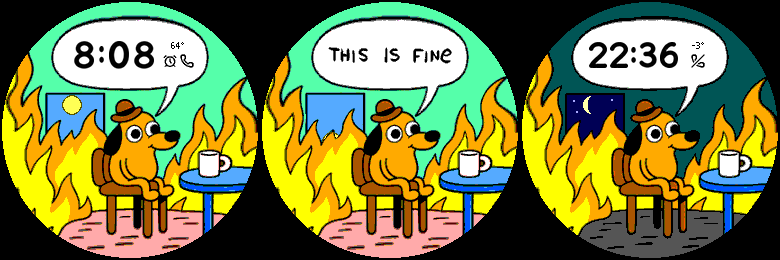
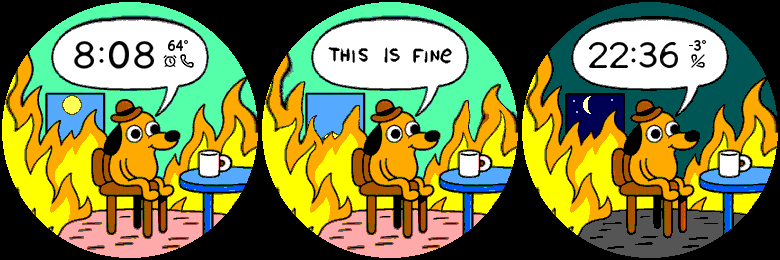
Lighten clock digits, enlarge weather, and animate the flame tips on wake

diff --git a/tools/prepare_art.py b/tools/prepare_art.py
@@ -4,7 +4,7 @@ from pathlib import Path
 import json
 import math
 import xml.etree.ElementTree as ET
-from PIL import Image, ImageDraw
+from PIL import Image, ImageChops, ImageDraw
 
 ROOT = Path(__file__).resolve().parents[1]
 ART, OUT, FONTS = ROOT / "art", ROOT / "resources/drawables", ROOT / "resources/fonts"
@@ -131,9 +131,9 @@ def build_marks():
                  ("MOON_R", moon_r), ("HALF_WIDTHS", halfwidths)]) + "}\n", encoding="utf8")
 
 
-# Strokes for the six remaining clock digits.
-# Coordinates are in a 20 by 28 px pen grid. Each tuple is one cubic Bezier.
+# Pen strokes in a 20 by 28 px grid. Each tuple is one cubic Bezier.
 STROKES = {
+    "1": [[(6,8),(8,6,10,4,12,3),(12,9,11.5,21,12,25)]],
     "2": [[(3,7),(6,0,17,1,17,8),(17,13,6,19,3,25),(6,25,13,25,17,25)]],
     "4": [[(13,3),(10,7,6,12,2,18),(7,18,12,18,18,18)],[(14,3),(14,9,14,20,14,25)]],
     "5": [[(16,3),(12,3,7,3,5,3),(5,7,5,10,4,13),(9,10,17,11,17,18),(18,26,8,28,3,23)]],
@@ -167,26 +167,40 @@ def clock_glyphs():
     day = Image.open(ART / "day-clock.png").getchannel("A")
     night = Image.open(ART / "night-clock.png").getchannel("A")
     glyphs = {c: pen(paths) for c, paths in STROKES.items()}
-    for c, sample, x, x2 in [("8",day,0,38), (":",day,41,57), ("0",day,59,95),
-                              ("1",night,0,28), ("3",night,115,148)]:
+    for c, sample, x, x2 in [("8",day,0,38), ("0",day,59,95), ("3",night,115,148)]:
         glyphs[c] = sample.crop((x, 0, x2, sample.height))
     return {c: im.crop(im.point(lambda v: 255 if v >= 40 else 0).getbbox()) for c, im in glyphs.items()}
 
 
-TINY = {
-    "0": ("0110","1001","1001","1001","1001","1001","0110"),
-    "1": ("0010","0110","0010","0010","0010","0010","0111"),
-    "2": ("0110","1001","0001","0010","0100","1000","1111"),
-    "3": ("1110","0001","0001","0110","0001","0001","1110"),
-    "4": ("0010","0110","1010","1010","1111","0010","0010"),
-    "5": ("1111","1000","1000","1110","0001","0001","1110"),
-    "6": ("0110","1000","1000","1110","1001","1001","0110"),
-    "7": ("1111","0001","0010","0010","0100","0100","0100"),
-    "8": ("0110","1001","1001","0110","1001","1001","0110"),
-    "9": ("0110","1001","1001","0111","0001","0001","0110"),
-    "-": ("000","000","000","111","000","000","000"),
-    "°": ("010","101","010","000","000","000","000"),
-}
+def clock_mask(digit, master, width, height):
+    # Lighten the stroke at its final screen size. Overscan keeps the outer
+    # dimensions steady while opening up the counters of 0, 6, 8 and 9.
+    scale = 6
+    ink_width = round(height * .41) if digit == "1" else width
+    w, h = ink_width * scale, height * scale
+    pad = 2 * scale
+    spread = 5  # five sixths of one display pixel on each side
+    canvas = Image.new("L", (w + 2*pad, h + 2*pad))
+    enlarged = master.resize((w + 2*spread, h + 2*spread), LANCZOS)
+    canvas.paste(enlarged, (pad-spread, pad-spread))
+    # Use a round nib so diagonals stay as legible as vertical stems.
+    thinned = canvas
+    for dx, dy in [(5,0),(-5,0),(0,5),(0,-5),(4,4),(4,-4),(-4,4),(-4,-4)]:
+        thinned = ImageChops.darker(thinned, ImageChops.offset(canvas, dx, dy))
+    ink = thinned.crop((pad,pad,pad+w,pad+h)).resize((ink_width,height), LANCZOS)
+    cell = Image.new("L",(width,height))
+    cell.paste(ink,((width-ink_width)//2,0))
+    return cell
+
+
+def clock_colon(height):
+    scale = 8
+    mask = Image.new("L",(5*scale,height*scale))
+    pen = ImageDraw.Draw(mask)
+    for center in (height*.29, height*.71):
+        pen.ellipse(((2.5-1.8)*scale,(center-1.8)*scale,
+                     (2.5+1.8)*scale,(center+1.8)*scale),fill=255)
+    return mask.resize((5,height), LANCZOS)
 
 
 def bmfont(name, height, entries):
@@ -211,18 +225,21 @@ def build_fonts():
     for name, height, normal_w, gap in [("ClockWide", 28, 20, 5), ("ClockCompact", 26, 18, 3)]:
         entries = []
         for c, im in glyphs.items():
-            w = 5 if c == ":" else normal_w-3 if c == "1" else normal_w
+            w = normal_w-3 if c == "1" else normal_w
             if c == "0" and name == "ClockCompact":
                 w += 1
-            h = round(height*.60) if c == ":" else height
-            entries.append((c, im.resize((w,h), LANCZOS), (height-h)//2, w+gap))
+            entries.append((c, clock_mask(c, im, w, height), 0, w+gap))
+        entries.append((":", clock_colon(height), 0, 5+gap))
         bmfont(name, height, entries)
     entries = []
-    for c, rows in TINY.items():
-        mask = Image.new("L",(len(rows[0]),len(rows)))
-        mask.putdata([255 if v=="1" else 0 for row in rows for v in row])
-        entries.append((c, mask, 0, mask.width+1))
-    bmfont("WeatherSmall", 7, entries)
+    for c, master in glyphs.items():
+        width = 5 if c == "1" else 7
+        entries.append((c, master.resize((width,11),LANCZOS), 0, width+1))
+    minus = Image.new("L",(4,1),255)
+    degree = Image.new("L",(32,32))
+    ImageDraw.Draw(degree).ellipse((1,1,30,30), outline=255, width=8)
+    entries.extend([("-",minus,5,5),("°",degree.resize((4,4),LANCZOS),0,5)])
+    bmfont("WeatherSmall", 11, entries)
 
 
 if __name__ == "__main__":

diff --git a/tools/animate_fire.py b/tools/animate_fire.py
@@ -1,0 +1,114 @@
+"""Rebuild the three moving poses from the resting day, night and window artwork."""
+from pathlib import Path
+import math
+from PIL import Image, ImageFilter
+
+ART = Path(__file__).resolve().parents[1] / "art"
+SIZE = 260
+# Tip position, area of influence, sideways travel and rise, in display pixels.
+# Adjacent tongues lean in different directions. Their bases stay planted.
+TIPS = (
+    (19, 70, 19, 32,  6,  7),
+    (40, 88, 15, 26, -6,  8),
+    (31,116, 16, 22, -5, -5),
+    (58,122, 16, 23,  6,  8),
+    (73,131, 13, 15, -3, -3),
+    (95,111, 15, 21, -7,  9),
+    (52,146, 15, 17, -5,  5),
+    (203,107, 18, 24, -7,  9),
+    (216,132, 15, 20,  5, -6),
+    (245, 83, 22, 34,  7, -8),
+    (236,116, 15, 25, -7,  8),
+)
+POSES = ((0,0), (1,1), (-.2,-.82), (-1,.35))
+
+
+def ramp(value):
+    value = min(1, max(0, value))
+    return value*value*(3-2*value)
+
+
+def brush(x, y, cx, cy, rx, ry):
+    return max(0, 1-((x-cx)/rx)**2-((y-cy)/ry)**2)**2
+
+
+def offsets(area):
+    points = []
+    for y in range(43, 155):
+        for x in (*range(104), *range(189, 260)):
+            edge = min(y-42,155-y,104-x if x<104 else x-188)
+            weight = area[x,y]/255 * ramp(edge/8)
+            if not weight:
+                continue
+            dx = dy = 0
+            for cx,cy,rx,ry,sway,rise in TIPS:
+                amount = brush(x,y,cx,cy,rx,ry)
+                dx += sway*amount
+                dy += rise*amount
+            if x < 104:
+                # Keep the low-charge rim visible in every pose.
+                weight *= 1-.90*brush(x,y,72,135,15,15)
+                if x > 91:
+                    weight *= ramp((142-y)/9)
+            elif 194 < x < 235:
+                # The lip of the coffee mug is in front of the fire.
+                weight *= ramp((145-y)/8)
+            if weight and (dx or dy):
+                points.append((x,y,dx*weight,dy*weight))
+    return points
+
+
+def behind_fire(x, y):
+    # The clear strip at row 100 supplies the sky and both vertical window
+    # edges. Elsewhere a retreating flame reveals the plain wall.
+    if 43 <= x <= 106 and y >= 90:
+        return x, min(y,100)
+    return 130,10
+
+
+def build():
+    scene_path, mask_path = ART/"scene-compact.png", ART/"window-atlas.png"
+    atlas = Image.open(scene_path).convert("RGB")
+    mask_atlas = Image.open(mask_path).convert("RGBA")
+    day = atlas.crop((0,0,SIZE,SIZE))
+    night = atlas.crop((0,SIZE,SIZE,2*SIZE))
+    window = mask_atlas.crop((0,0,SIZE,SIZE)).getchannel("A")
+    fire = Image.new("L",day.size)
+    fire.putdata([255 if r>=170 and g>=85 and b==0 else 0 for r,g,b in day.get_flattened_data()])
+    area = fire.filter(ImageFilter.MaxFilter(17)).filter(ImageFilter.GaussianBlur(2))
+    points = offsets(area.load())
+    day_pixels, night_pixels, sky_pixels = day.load(), night.load(), window.load()
+    rim = fire.filter(ImageFilter.MaxFilter(7)).load()
+    foreground = Image.new("L",day.size)
+    foreground.putdata([
+        255 if rim[x,y] and day_pixels[x,y] != day_pixels[behind_fire(x,y)] else 0
+        for y in range(SIZE) for x in range(SIZE)
+    ])
+    moving = foreground.load()
+    for pose, (sway, rise) in enumerate(POSES[1:], 1):
+        images = [im.copy() for im in (day,night,window)]
+        day_out, night_out, sky_out = (im.load() for im in images)
+        for x,y,dx,dy in points:
+            sx = min(258.999, max(0, x+dx*sway))
+            sy = min(258.999, max(0, y+dy*rise))
+            u,v = math.floor(sx), math.floor(sy)
+            a,b = sx-u,sy-v
+            taps = ((u,v,(1-a)*(1-b)), (u+1,v,a*(1-b)), (u,v+1,(1-a)*b), (u+1,v+1,a*b))
+            # Move only the foreground fire and its ink. Sampling the window
+            # itself at a displaced coordinate would bend or duplicate its frame.
+            backdrop = behind_fire(x,y) if moving[x,y] else (x,y)
+            taps = [(i,j,w) if moving[i,j] else (*backdrop,w) for i,j,w in taps]
+            for src, dest in ((day_pixels,day_out),(night_pixels,night_out)):
+                dest[x,y] = tuple(85*round(sum(src[i,j][k]*w for i,j,w in taps)/85) for k in range(3))
+            sky_out[x,y] = 255 if sum(sky_pixels[i,j]*w for i,j,w in taps)>=127.5 else 0
+        atlas.paste(images[0],(pose*SIZE,0))
+        atlas.paste(images[1],(pose*SIZE,SIZE))
+        mask = Image.new("RGBA",day.size,"white")
+        mask.putalpha(images[2])
+        mask_atlas.paste(mask,(pose*SIZE,0))
+    atlas.save(scene_path,optimize=True)
+    mask_atlas.save(mask_path,optimize=True)
+
+
+if __name__ == "__main__":
+    build()

diff --git a/tools/verify_art.py b/tools/verify_art.py
@@ -118,6 +118,27 @@ def verify():
             prev=n
         assert sky("Night",p,100).crop((62,95,82,115)).tobytes() == sky("Night",0,100).crop((62,95,82,115)).tobytes()
 
+    # Track the tip next to the mug and keep the window, dog and mug still.
+    tips = []
+    for pose in range(4):
+        frame = room("Day", pose)
+        front = frame.crop((193,94,215,125)).convert("RGB")
+        tips.append(min(i // front.width for i,(red,green,blue) in enumerate(front.get_flattened_data())
+                        if red >= 170 and green >= 85 and blue == 0))
+        for fixed in ((55,92,97,98), (106,119,187,199), (198,151,229,177)):
+            assert frame.crop(fixed).tobytes() == room("Day",0).crop(fixed).tobytes()
+    assert max(tips)-min(tips)>=8, tips
+
+    # At watch resolution even a signed temperature must clear both the clock
+    # and the status row. Two-digit readings should use the full larger height.
+    for reading in ("12°", "64°", "-40°", "105°", "-105°", "--°"):
+        im = Image.new("RGBA",(260,90),"white")
+        text(im,"WeatherSmall",reading,178,45)
+        left,top,right,bottom = im.convert("L").point(lambda v: 255 if v<128 else 0).getbbox()
+        assert left>=160 and right<=198 and top>=37 and bottom<=52, (reading,left,top,right,bottom)
+        if reading != "--°":
+            assert bottom-top >= 10, (reading, bottom-top)
+
     # Every real clock label must fit to the left of the status block.
     for hour in range(24):
         for minute in range(60):

diff --git a/README.md b/README.md
@@ -16,7 +16,9 @@ By day, the last sliver of sun is still visible at 6% and disappears at 5%. At n
 
 *Raise your wrist to see the protagonist's incident report alternating with the time (with a bonus incident report on low battery)*
 
-The opening line is always **THIS IS FINE**. Two seconds later the clock returns. The bubble keeps alternating while the fire flickers. At 10% battery or below, the next report reads **SEND COFFEE**. The animation stops after ten seconds or when the watch goes back to sleep.
+The dog speaks at **0, 4, and 8 seconds**. The clock returns at **2 and 6 seconds**, then stays on at **10 seconds** as the fire goes still. The opening line is always **THIS IS FINE**. At 10% battery or below, the later reports read **SEND COFFEE**. An earlier sleep signal ends the animation immediately.
+
+The flames rise and sway at four frames per second. The face uses Garmin’s wake notification for the same sequence whenever the system wakes it. On the fēnix 6, the LIGHT button can illuminate the display without sending that notification.
 
 ## At a glance
 
@@ -59,3 +61,5 @@ monkeydo.bat build\tests\ThisIsFine-tests.prg fenix6pro /t
 ```
 
 The tests cover drawing the clock and animation frames, dialogue timing, the battery cutoff, time and temperature formats, and day/night transitions. To check all 101 battery levels against all four fire poses, install `tools/requirements.txt` and run `python tools/verify_art.py`.
+
+To edit the fire motion, adjust the flame tips in `tools/animate_fire.py`, run that script, then run `python tools/prepare_art.py` to rebuild the watch resources.
